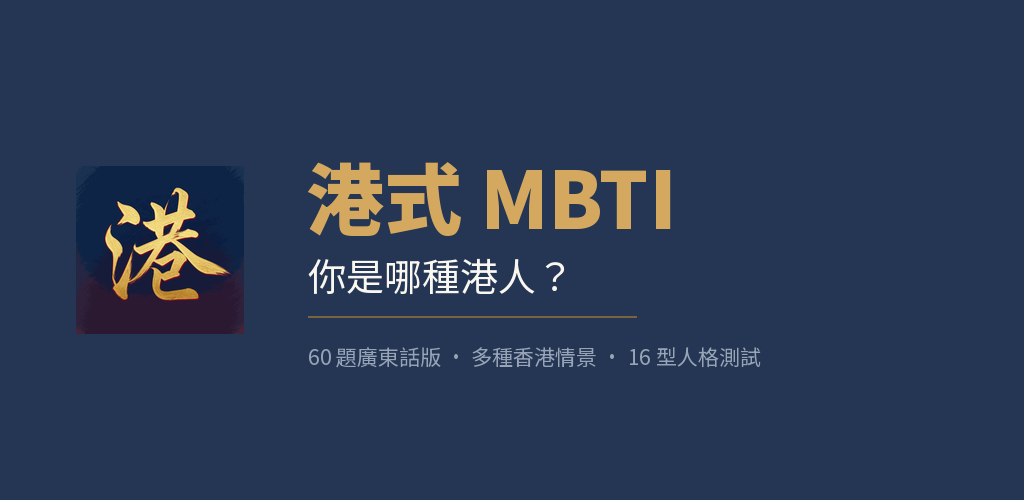
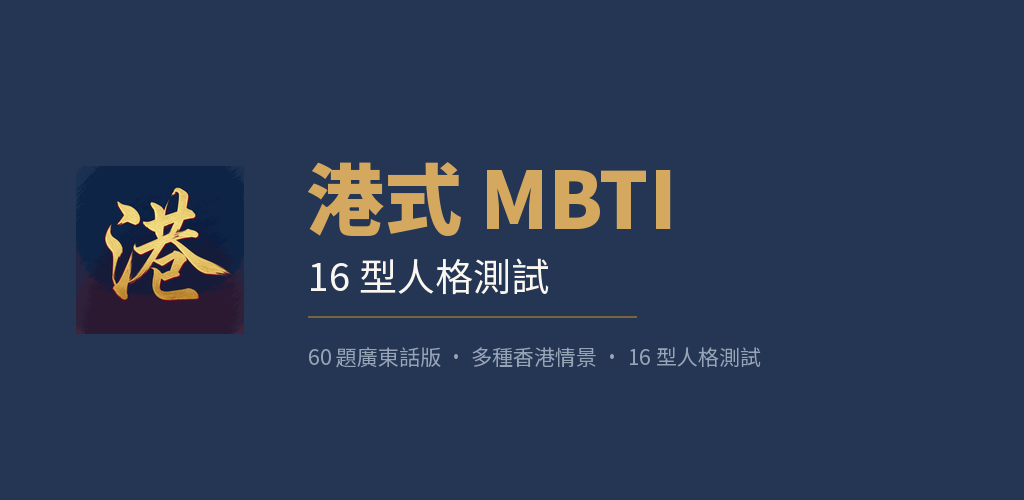
store-listing: feature graphic v2 subtitle changed to 16 型人格測試 (Roy pick B)

Changed region(s): [[0.2812, 0.51, 0.5625, 0.6]]

diff --git a/store-listing/_make-feature-v2.py b/store-listing/_make-feature-v2.py
@@ -37,7 +37,7 @@ f_tag = ImageFont.truetype(FONT_REG, 21)
 
 X = 306
 d.text((X, 138), "港式 MBTI", font=f_title, fill=GOLD)
-d.text((X + 2, 246), "你是哪種港人？", font=f_sub, fill=PAPER)
+d.text((X + 2, 246), "16 型人格測試", font=f_sub, fill=PAPER)
 
 # 3) 金色幼線
 d.line([(X + 2, 316), (X + 330, 316)], fill=(120, 100, 62), width=2)
